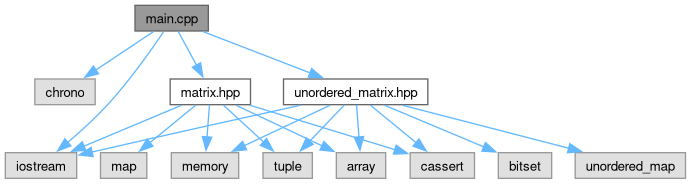
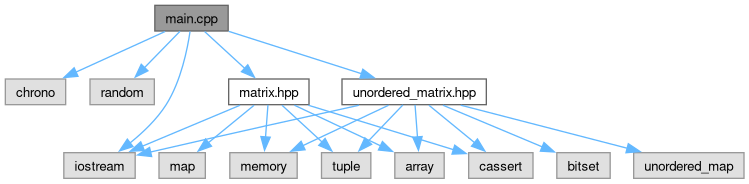
Deploying to gh-pages from @ OmarovAmir/otus@5b90d116486ede656693bc407a27cc4dd4df0518 🚀

Changed region(s): [[0.0, 0.0272, 1.0, 0.9783]]

diff --git a/main_8cpp.html b/main_8cpp.html
@@ -75,6 +75,7 @@ $(function() {
 </div><!--header-->
 <div class="contents">
 <div class="textblock"><code>#include &lt;chrono&gt;</code><br />
+<code>#include &lt;random&gt;</code><br />
 <code>#include &lt;iostream&gt;</code><br />
 <code>#include &lt;<a class="el" href="matrix_8hpp_source.html">matrix.hpp</a>&gt;</code><br />
 <code>#include &lt;<a class="el" href="unordered__matrix_8hpp_source.html">unordered_matrix.hpp</a>&gt;</code><br />
@@ -83,35 +84,37 @@ Include dependency graph for main.cpp:</div>
 <div class="dyncontent">
 <div class="center"><img src="main_8cpp__incl.png" border="0" usemap="#amain_8cpp" alt=""/></div>
 <map name="amain_8cpp" id="amain_8cpp">
-<area shape="rect" title=" " alt="" coords="135,5,208,31"/>
-<area shape="rect" title=" " alt="" coords="35,79,95,105"/>
-<area shape="poly" title=" " alt="" coords="155,34,97,72,94,68,152,29"/>
-<area shape="rect" title=" " alt="" coords="5,153,77,178"/>
-<area shape="poly" title=" " alt="" coords="166,33,142,67,110,106,70,144,66,140,106,103,138,64,161,30"/>
-<area shape="rect" href="matrix_8hpp.html" title=" " alt="" coords="170,79,251,105"/>
-<area shape="poly" title=" " alt="" coords="180,30,199,64,194,66,176,32"/>
-<area shape="rect" href="unordered__matrix_8hpp.html" title=" " alt="" coords="284,79,428,105"/>
-<area shape="poly" title=" " alt="" coords="204,29,311,71,309,75,202,34"/>
-<area shape="poly" title=" " alt="" coords="183,108,85,149,83,144,181,103"/>
-<area shape="rect" title=" " alt="" coords="336,153,386,178"/>
-<area shape="poly" title=" " alt="" coords="237,103,323,143,321,148,235,108"/>
-<area shape="rect" title=" " alt="" coords="410,153,475,178"/>
-<area shape="poly" title=" " alt="" coords="250,103,396,147,395,152,249,108"/>
-<area shape="rect" title=" " alt="" coords="101,153,147,178"/>
-<area shape="poly" title=" " alt="" coords="197,107,151,145,148,141,194,103"/>
-<area shape="rect" title=" " alt="" coords="171,153,239,178"/>
-<area shape="poly" title=" " alt="" coords="212,105,210,137,204,137,207,105"/>
-<area shape="rect" title=" " alt="" coords="263,153,312,178"/>
-<area shape="poly" title=" " alt="" coords="225,103,265,140,262,144,222,107"/>
-<area shape="poly" title=" " alt="" coords="301,108,93,155,91,149,300,103"/>
-<area shape="poly" title=" " alt="" coords="359,105,362,137,356,137,354,105"/>
-<area shape="poly" title=" " alt="" coords="372,103,418,141,415,145,369,107"/>
-<area shape="poly" title=" " alt="" coords="331,108,246,148,243,143,329,103"/>
-<area shape="poly" title=" " alt="" coords="346,107,311,143,307,140,343,103"/>
-<area shape="rect" title=" " alt="" coords="498,153,552,178"/>
-<area shape="poly" title=" " alt="" coords="385,103,485,145,483,149,383,108"/>
-<area shape="rect" title=" " alt="" coords="575,153,686,178"/>
-<area shape="poly" title=" " alt="" coords="403,103,570,146,569,151,402,108"/>
+<area shape="rect" title=" " alt="" coords="155,5,228,31"/>
+<area shape="rect" title=" " alt="" coords="5,79,66,105"/>
+<area shape="poly" title=" " alt="" coords="166,34,77,75,75,70,164,29"/>
+<area shape="rect" title=" " alt="" coords="90,79,154,105"/>
+<area shape="poly" title=" " alt="" coords="182,33,146,70,142,66,178,29"/>
+<area shape="rect" title=" " alt="" coords="64,153,135,178"/>
+<area shape="poly" title=" " alt="" coords="193,32,185,67,168,106,151,127,132,145,128,141,147,124,164,103,180,65,187,31"/>
+<area shape="rect" href="matrix_8hpp.html" title=" " alt="" coords="229,79,309,105"/>
+<area shape="poly" title=" " alt="" coords="206,30,247,66,243,70,203,34"/>
+<area shape="rect" href="unordered__matrix_8hpp.html" title=" " alt="" coords="342,79,486,105"/>
+<area shape="poly" title=" " alt="" coords="230,29,363,71,361,76,228,34"/>
+<area shape="poly" title=" " alt="" coords="241,108,144,149,141,144,239,103"/>
+<area shape="rect" title=" " alt="" coords="395,153,444,178"/>
+<area shape="poly" title=" " alt="" coords="296,103,382,143,379,148,293,108"/>
+<area shape="rect" title=" " alt="" coords="469,153,533,178"/>
+<area shape="poly" title=" " alt="" coords="309,103,455,147,453,152,307,108"/>
+<area shape="rect" title=" " alt="" coords="159,153,205,178"/>
+<area shape="poly" title=" " alt="" coords="256,107,210,145,207,141,252,103"/>
+<area shape="rect" title=" " alt="" coords="230,153,297,178"/>
+<area shape="poly" title=" " alt="" coords="271,105,268,137,263,137,265,105"/>
+<area shape="rect" title=" " alt="" coords="322,153,371,178"/>
+<area shape="poly" title=" " alt="" coords="284,103,324,140,320,144,280,107"/>
+<area shape="poly" title=" " alt="" coords="360,108,151,155,150,149,358,103"/>
+<area shape="poly" title=" " alt="" coords="418,105,420,137,415,137,412,105"/>
+<area shape="poly" title=" " alt="" coords="431,103,476,141,473,145,427,107"/>
+<area shape="poly" title=" " alt="" coords="390,108,304,148,302,143,387,103"/>
+<area shape="poly" title=" " alt="" coords="405,107,370,143,366,140,401,103"/>
+<area shape="rect" title=" " alt="" coords="557,153,610,178"/>
+<area shape="poly" title=" " alt="" coords="444,103,544,145,542,149,442,108"/>
+<area shape="rect" title=" " alt="" coords="634,153,744,178"/>
+<area shape="poly" title=" " alt="" coords="461,103,628,146,627,151,460,108"/>
 </map>
 </div>
 </div><table class="memberdecls">

diff --git a/version_8h.html b/version_8h.html
@@ -79,7 +79,7 @@ $(function() {
 <table class="memberdecls">
 <tr class="heading"><td colspan="2"><h2 class="groupheader"><a id="define-members" name="define-members"></a>
 Macros</h2></td></tr>
-<tr class="memitem:a4a5fc96a4bdd7d68ed99ccce9ca2e77e" id="r_a4a5fc96a4bdd7d68ed99ccce9ca2e77e"><td class="memItemLeft" align="right" valign="top">#define&#160;</td><td class="memItemRight" valign="bottom"><a class="el" href="version_8h.html#a4a5fc96a4bdd7d68ed99ccce9ca2e77e">PROJECT_VERSION_PATCH</a>&#160;&#160;&#160;48</td></tr>
+<tr class="memitem:a4a5fc96a4bdd7d68ed99ccce9ca2e77e" id="r_a4a5fc96a4bdd7d68ed99ccce9ca2e77e"><td class="memItemLeft" align="right" valign="top">#define&#160;</td><td class="memItemRight" valign="bottom"><a class="el" href="version_8h.html#a4a5fc96a4bdd7d68ed99ccce9ca2e77e">PROJECT_VERSION_PATCH</a>&#160;&#160;&#160;49</td></tr>
 <tr class="separator:a4a5fc96a4bdd7d68ed99ccce9ca2e77e"><td class="memSeparator" colspan="2">&#160;</td></tr>
 </table>
 <h2 class="groupheader">Macro Definition Documentation</h2>
@@ -90,7 +90,7 @@ Macros</h2></td></tr>
 <div class="memproto">
       <table class="memname">
         <tr>
-          <td class="memname">#define PROJECT_VERSION_PATCH&#160;&#160;&#160;48</td>
+          <td class="memname">#define PROJECT_VERSION_PATCH&#160;&#160;&#160;49</td>
         </tr>
       </table>
 </div><div class="memdoc">

diff --git a/version_8h_source.html b/version_8h_source.html
@@ -79,7 +79,7 @@ $(document).ready(function() { init_codefold(0); });
 <div class="contents">
 <a href="version_8h.html">Go to the documentation of this file.</a><div class="fragment"><div class="line"><a id="l00001" name="l00001"></a><span class="lineno">    1</span><span class="preprocessor">#pragma once</span></div>
 <div class="line"><a id="l00002" name="l00002"></a><span class="lineno">    2</span> </div>
-<div class="line"><a id="l00003" name="l00003"></a><span class="lineno"><a class="line" href="version_8h.html#a4a5fc96a4bdd7d68ed99ccce9ca2e77e">    3</a></span><span class="preprocessor">#define PROJECT_VERSION_PATCH 48</span></div>
+<div class="line"><a id="l00003" name="l00003"></a><span class="lineno"><a class="line" href="version_8h.html#a4a5fc96a4bdd7d68ed99ccce9ca2e77e">    3</a></span><span class="preprocessor">#define PROJECT_VERSION_PATCH 49</span></div>
 </div><!-- fragment --></div><!-- contents -->
 <!-- start footer part -->
 <hr class="footer"/><address class="footer"><small>
